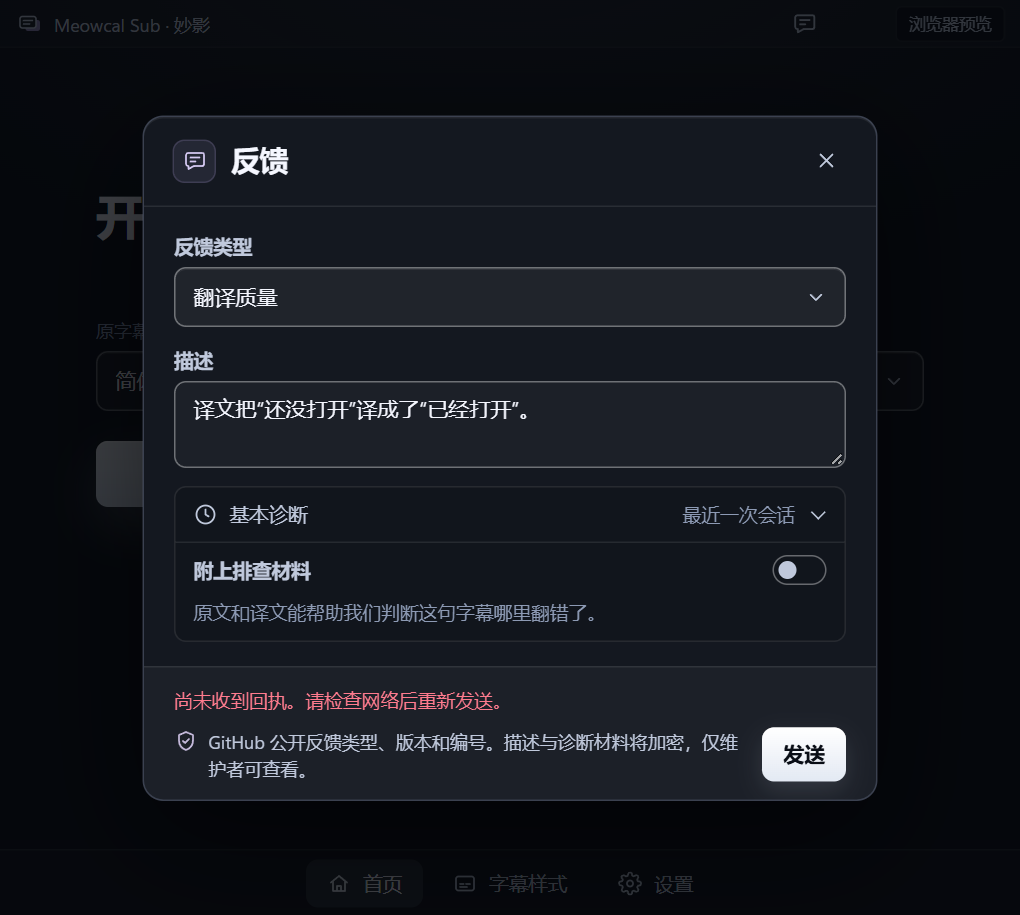
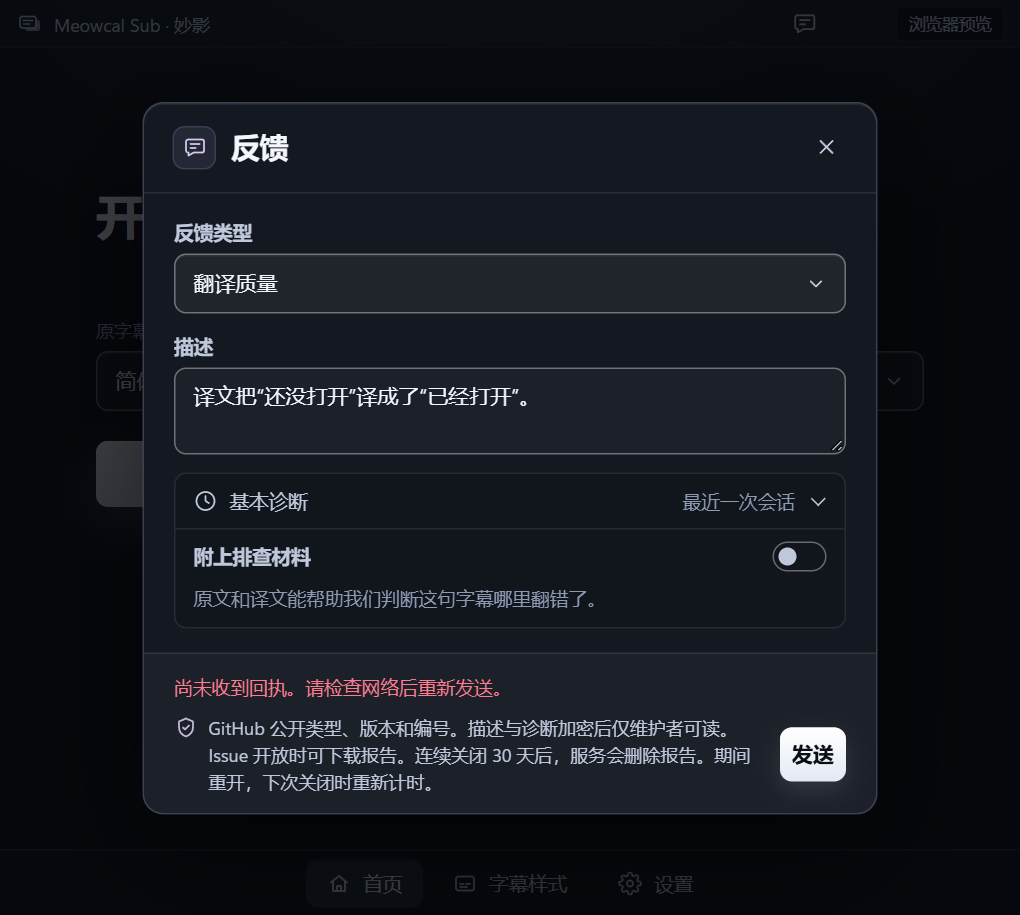
feat(feedback): explain archive retention before sending (#340)

diff --git a/src/ui/feedback-dialog.ts b/src/ui/feedback-dialog.ts
@@ -244,7 +244,7 @@ export class FeedbackDialog extends LitElement {
                 <div class="feedback-footer-row">
                   <p>
                     ${icon("shield")}<span
-                      >${t("GitHub shows the type, version and issue number. Only maintainers can open your encrypted description and diagnostics.")}</span
+                      >${t("GitHub shows the type, version and issue number. Only maintainers can read your description and diagnostics. We keep the encrypted report until the issue has been closed for 30 days in a row. Reopening sooner resets the timer.")}</span
                     >
                   </p>
                   <button

diff --git a/frontend-tests/browser/feedback.spec.ts b/frontend-tests/browser/feedback.spec.ts
@@ -62,6 +62,9 @@ test("feedback keeps optional material private and retries one immutable request
   const entry = page.getByRole("button", { name: "Feedback", exact: true });
   await entry.click();
   const dialog = page.getByRole("dialog", { name: "Feedback" });
+  await expect(
+    dialog.getByText(/30 days in a row\. Reopening sooner resets the timer/),
+  ).toBeVisible();
   await dialog.getByLabel("Feedback type").selectOption("translation");
   await dialog.getByRole("textbox").fill("A fixture translation reverses the meaning.");
   await expect(dialog.getByText("Fixture line", { exact: false })).toHaveCount(0);

diff --git a/services/feedback/README.md b/services/feedback/README.md
@@ -5,7 +5,7 @@ The desktop app encrypts a ZIP for the team's age recipient before submission. T
 ## Prepare the service
 
 1. Create a GitHub App with **Issues: Read and write**. Install it on `PeterShanxin/Meowcal-Sub` only. Create the `source:app` label in that repository. The Worker requests installation tokens restricted to that repository and permission.
-2. From `services/feedback`, create the private R2 bucket `meowcal-feedback-archives`. Disable public access and apply an object lifecycle rule to expire the `reports/` prefix after 30 days. Leave Worker observability disabled. The receipt ledger retains the issue number, category, version, random submission ID and timestamps for idempotency.
+2. From `services/feedback`, create the private R2 bucket `meowcal-feedback-archives` and disable public access. Before upgrading an existing bucket, remove any lifecycle rule that deletes `reports/` objects based on their age, including a bucket-wide expiration rule. The Worker manages expiry using GitHub issue history. Leave Worker observability disabled. The receipt ledger retains the issue number, category, version, random submission ID and timestamps for idempotency.
 3. Configure Worker secrets `GITHUB_APP_ID`, `GITHUB_INSTALLATION_ID`, `GITHUB_APP_PRIVATE_KEY` and `ARCHIVE_READ_TOKEN`. The app key must be PKCS#8 PEM. Convert GitHub's generated RSA key with `openssl pkcs8 -topk8 -nocrypt` using private input and output files. Generate at least 32 random bytes for the archive-read credential and encode them as hex. Provision secrets through a trusted console or standard input.
 4. Deploy the Worker with its checked-in Wrangler configuration and an HTTPS origin. Rate-limit namespace 340 must be available in the chosen Cloudflare account. Its edge limit is six uploads per network address per minute. The ledger admits up to 120 new report IDs per UTC day across the service. Each encrypted archive can contain up to 16 MiB.
 5. Create the GitHub Environment `feedback-access`. Restrict deployments to branch `main` and protect changes to the retrieval workflow on that branch. Generate an X25519 team identity with `age-keygen` and pass its private output directly to `gh secret set FEEDBACK_AGE_IDENTITY --env feedback-access` on standard input. The public `age1…` recipient printed by `age-keygen` is safe to distribute. Maintainers use their GitHub accounts to open reports.
@@ -31,7 +31,15 @@ By default the script writes the ZIP to `%LOCALAPPDATA%\meowcal-sub\feedback\fee
 
 The ledger reserves issuance before calling GitHub. If GitHub confirms rejection, the next user retry may create the issue. If GitHub might have accepted the request, the service keeps the reservation and looks up the fixed feedback reference on retry after 30 seconds. Only an issue created by this GitHub App can complete recovery. Search indexing delay can keep a report pending. If delivery remains uncertain, inspect the app's issue history and the ledger before clearing a reservation. A second create request could duplicate the report.
 
-The private `GET /v1/issues/{number}/archive` route requires the archive-read bearer credential. Knowledge of the issue number or feedback reference alone does not authorize a download. If the bucket lifecycle has removed the archive, the public issue remains accessible.
+The private `GET /v1/issues/{number}/archive` route requires the archive-read bearer credential. Knowledge of the issue number or feedback reference alone does not authorize a download.
+
+## Archive retention
+
+A report linked to an open issue is available to maintainers regardless of its upload date. Closing the issue starts a 30-day countdown. Reopening it before the deadline cancels that countdown, and closing it again starts a fresh 30 days. Once the issue has spent 30 consecutive days closed, access expires permanently. Reopening it later cannot restore the archive. Its public issue and delivery receipt are preserved. Expiry applies to the service's copy. Maintainers manage any ZIP they have already downloaded.
+
+Deploy the scheduled trigger in the checked-in Wrangler configuration along with the Worker. It reviews up to eight due reports every five minutes. The cleanup job and the download route verify issue history with the existing GitHub App installation. If GitHub is unavailable, retry the download later. The service defers deletion until it can verify expiry. The ledger migrates existing rows automatically and applies the same policy to older linked reports.
+
+At 30 days, cleanup can delete an unlinked upload if no issue creation was attempted or GitHub definitively rejected the attempt. If creation may have succeeded, cleanup searches for the issue. A match links the archive and applies the issue's retention history. An empty search result can reflect an edited issue body or indexing delay. In that case, the archive stays private and cleanup retries the lookup daily. See the delivery recovery procedure above for manual reconciliation.
 
 Run `node --test services/feedback/worker.test.mjs` from the repository root for the intake, privacy, authorization, concurrency and retry tests. With Wrangler 4.165.0, `wrangler deploy --dry-run` from this directory verifies the bundle and binding declarations locally.
 

diff --git a/docs/evidence/feedback-340/README.md b/docs/evidence/feedback-340/README.md
@@ -22,11 +22,11 @@ The hosted ARM64 machine ran the debug Tauri application with the built frontend
 
 ![Translation feedback with one optional subtitle pair selected](03-selected-material.png)
 
-The user can review the exact subtitle text before selecting it. The footer explains what appears on GitHub. A failed send preserves the description and selections for another attempt. A successful send returns an issue number.
+The user can review the exact subtitle text before selecting it. The footer explains what appears on GitHub, who can read the report, and when it is deleted. A failed send preserves the description and selections for another attempt. A successful send returns an issue number.
 
 - [Retry with the draft preserved](06-retry.png)
 - [Delivery receipt](07-sent.png)
 
-These images show the application's Chinese UI rendered in Edge on Windows x64 build 26300.9974. The development checkout used the UI from commit `97b68d4`, with authored subtitle text, a simulated capture failure, and a local receipt. Issue #10001 is a fixture. The viewport ranges from 680 × 500 to 760 × 690 CSS pixels at a device scale factor of 1.5.
+These images show the application's Chinese UI rendered in Edge on Windows x64 build 26300.10075 with the closure-based retention notice. The examples use authored subtitle text, a simulated capture failure, and a local receipt. Issue #10001 is a fixture. The viewport ranges from 680 × 500 to 760 × 690 CSS pixels at a device scale factor of 1.5.
 
 Subsequent Windows frontend runs publish their native screenshots in the `feedback-native-windows-arm64` workflow artifact.

diff --git a/docs/adr/0008-encrypted-feedback.md b/docs/adr/0008-encrypted-feedback.md
@@ -1,6 +1,6 @@
 # ADR-0008: Encrypted feedback with public issue tracking
 
-**Status:** Proposed
+**Status:** Accepted
 
 **Date:** 2026-11-19
 
@@ -19,6 +19,12 @@ individual materials by snapshot-scoped ID. The desktop app encrypts the
 entire ZIP, including the description and filenames, to a build-time public key.
 The receiver stores ciphertext and creates a public issue with fixed metadata.
 
+Use the linked issue's state to determine how long the receiver keeps the archive.
+Maintainers can retrieve it for as long as the issue is open. Deletion becomes
+due after the issue has been continuously closed for 30 days. Reopening before
+that deadline cancels it. A later close starts a fresh 30-day period. Expiry
+leaves the public issue and delivery receipt in place.
+
 A protected GitHub Actions job may use the team's age identity after checking
 the requesting maintainer's repository permission. It returns a package
 encrypted for that invocation's ephemeral recipient. The maintainer's script
@@ -31,3 +37,4 @@ The publisher must configure the receiver origin and public key for each
 distribution channel. Loss of the team identity makes existing reports
 unreadable. Rotation must account for reports from already installed clients.
 Maintainers who open a report gain access to everything the user selected.
+Deleting the service's archive cannot recall a ZIP already downloaded by a maintainer.

diff --git a/docs/USAGE.zh-CN.md b/docs/USAGE.zh-CN.md
@@ -223,7 +223,9 @@ CPU 翻译期间，PP-OCRv6 使用两个 CPU 线程，为翻译留出资源；GP
 关闭日志时仍可发送文字反馈。打开表单不会改变日志级别。
 
 点「发送」后，应用会加密并提交描述、诊断和所选材料。公开 GitHub Issue 只显示类型、
-版本和反馈编号。获授权的维护者可以查看加密内容。发送失败时，表单会保留草稿供重试。
+版本和反馈编号。仅获授权的维护者可查看加密报告，Issue 开放期间一直可下载。
+Issue 连续关闭 30 天后，服务会删除保存的报告。期间重开会取消这次删除，下次关闭时重新计算 30 天。公开 Issue 会保留。
+发送失败时，表单会保留草稿供重试。
 
 1. 记录应用版本（**设置 → 关于**）、Windows 构建号（`winver`）及 x64 / ARM64 架构。
 2. 记录原字幕语言、目标语言、**运行方案** 和 **文字识别** 引擎。

diff --git a/docs/USAGE.md b/docs/USAGE.md
@@ -280,8 +280,11 @@ Logging Off still allows a written report. Opening the form does not change your
 
 Choose **Send** to encrypt and submit the description, diagnostics, and selected
 materials. The public GitHub issue shows the type, version, and report number.
-Authorized maintainers can open the encrypted contents. If sending fails, the
-form keeps your draft for another attempt.
+Only authorized maintainers can open the encrypted report. They can download it
+while the issue is open. The service deletes its copy after the issue has been
+closed for 30 consecutive days. Reopening the issue before then cancels the
+deadline. The next close starts a fresh 30 days. The public issue remains visible.
+If sending fails, the form keeps your draft for another attempt.
 
 1. Note the app version (**Settings → About**), Windows build
    (`winver`), and whether the PC is x64 or ARM64.

diff --git a/docs/ARCHITECTURE.md b/docs/ARCHITECTURE.md
@@ -192,7 +192,10 @@ submit the snapshot ID and selected material IDs. Rust resolves these IDs
 against the frozen preview, writes a ZIP in memory, and encrypts it to the
 build's age recipient before sending it to the configured HTTPS origin. The
 browser development server does not expose these commands. Public issue metadata
-is restricted to category, product version, and report identifier. See
+is restricted to category, product version, and report identifier. The receiver
+keeps an open issue's encrypted archive available to maintainers. It expires
+after 30 consecutive days closed. Reopening before expiry clears that deadline,
+and the next close starts a new 30-day period. See
 [ADR-0008](adr/0008-encrypted-feedback.md) for the reader and transport boundaries.
 
 The browser backend reads `%APPDATA%\<log identifier>\config.json` through

diff --git a/README.md b/README.md
@@ -126,7 +126,9 @@ architecture, choose **Settings → Profile → Compatibility**.
 Capture, recognition, and translation run locally. In the unreleased feedback
 form, pressing **Send** shares an encrypted report. You can preview and select
 individual subtitle samples or images. The public issue contains only the type,
-app version, and report identifier.
+app version, and report identifier. Maintainers can download the encrypted report
+while the issue is open. The service deletes it after 30 consecutive days closed.
+Reopening before then starts the count over at the next close.
 Production logs record support codes, timings, and counts, not subtitle text by default.
 The Local logs setting can opt into Verbose capture images, OCR text,
 and translations stored only on this PC, capped at 256 MiB. Treat those files as private.

diff --git a/docs/adr/README.md b/docs/adr/README.md
@@ -79,7 +79,7 @@ exist for anyone who did not write it.
 | [0005](0005-client-partitioned-core-storage.md)      | Accepted | Client-partitioned Core storage sharing one model by hard link |
 | [0006](0006-store-distribution-channel.md)           | Accepted | Independent Store updates, package identity and default data   |
 | [0007](0007-embedded-pp-ocr-recognizer.md)           | Accepted | PP-OCRv6 embedded in Core, to become Sub's default recognizer   |
-| [0008](0008-encrypted-feedback.md)                   | Proposed | Encrypted user-selected evidence and public issue tracking     |
+| [0008](0008-encrypted-feedback.md)                   | Accepted | Encrypted user-selected evidence and public issue tracking     |
 
 ## Superseded direction
 
